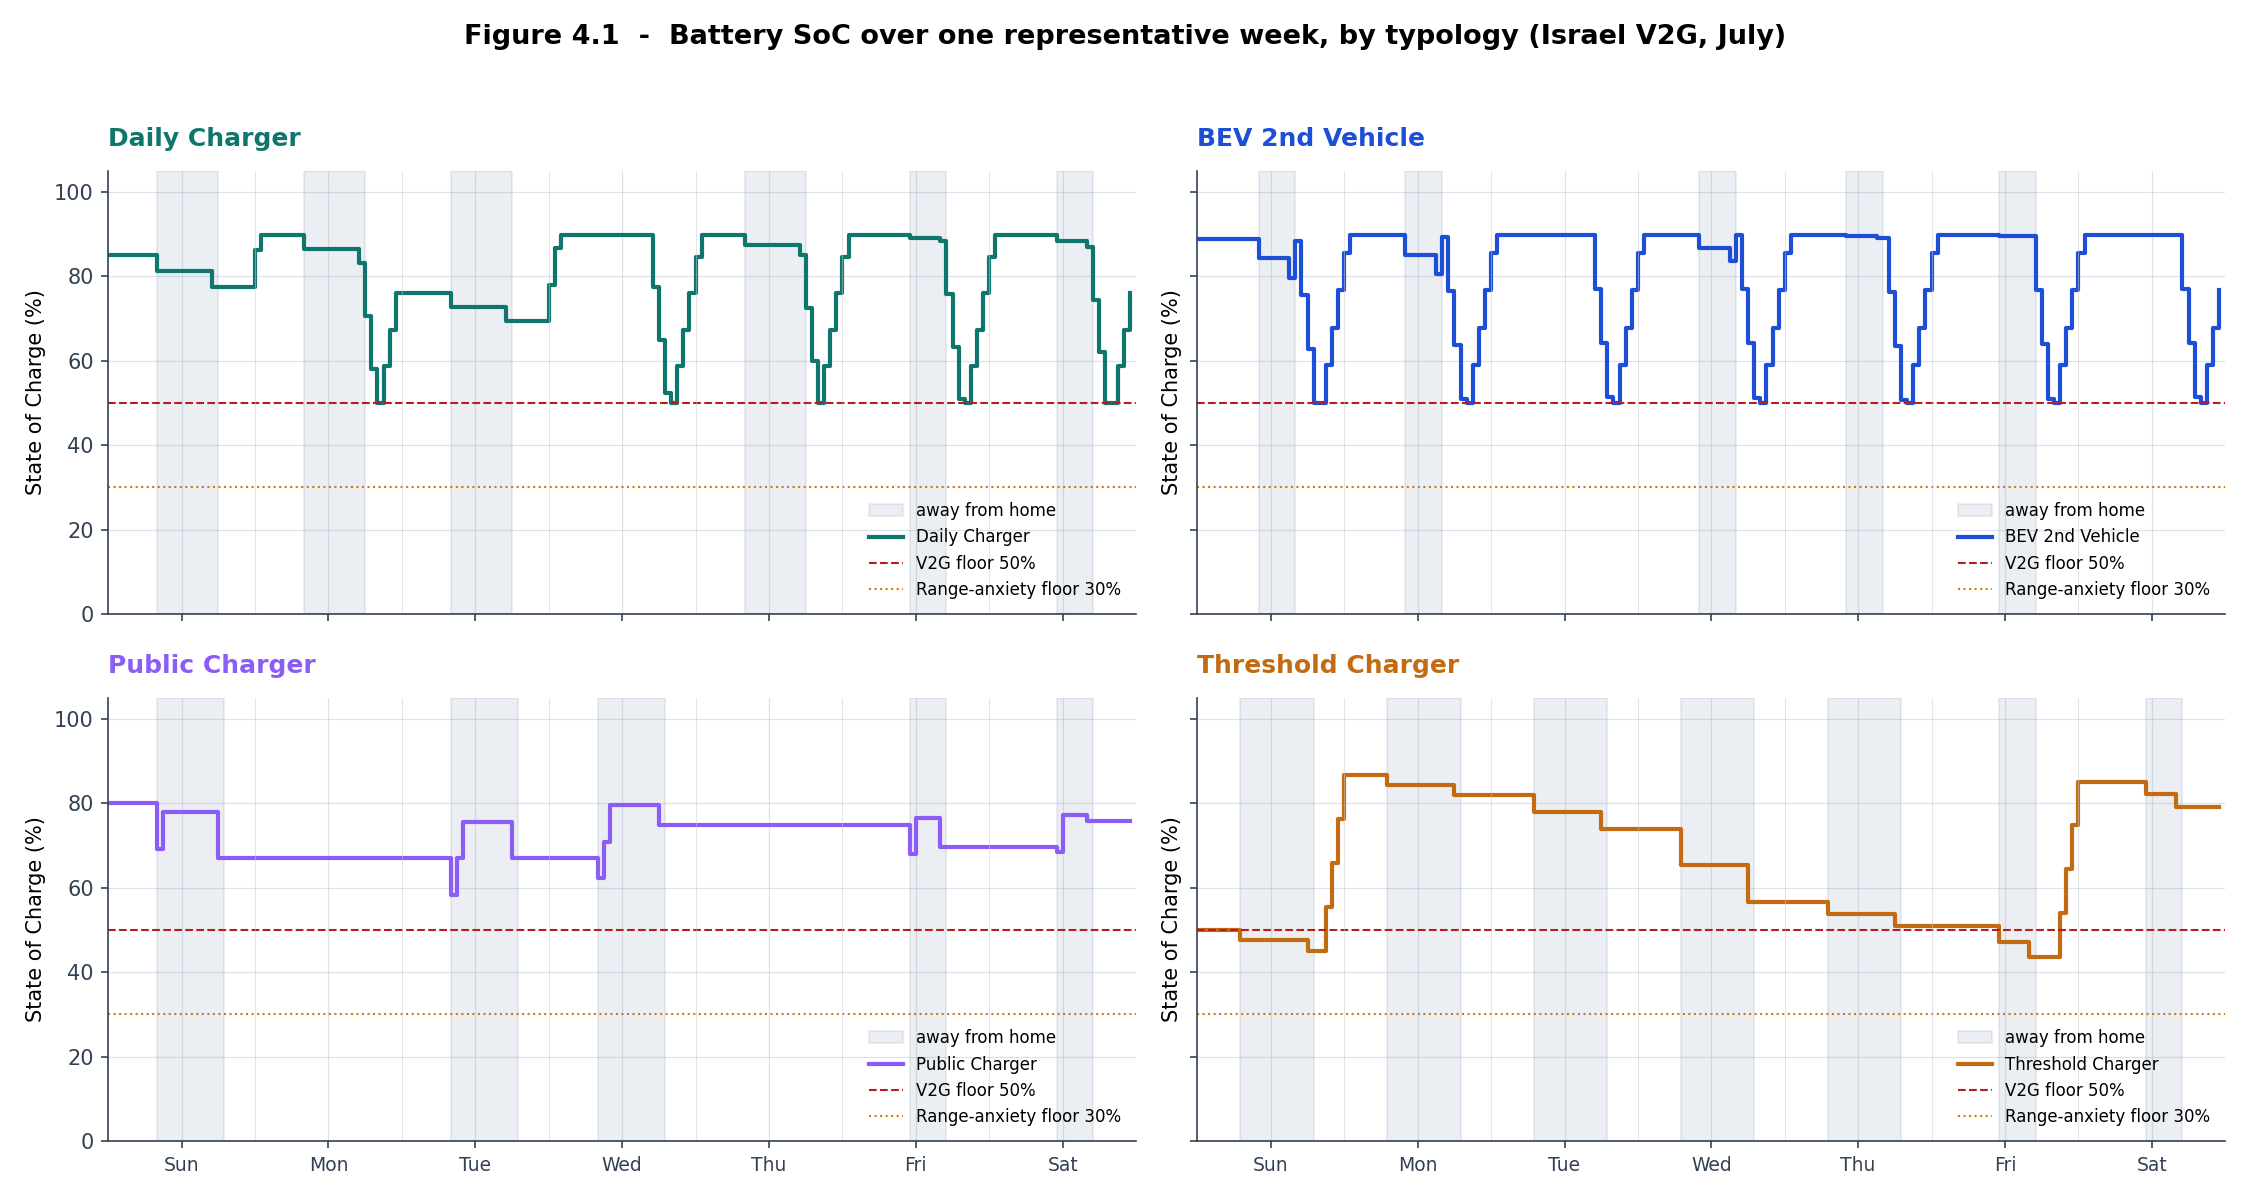
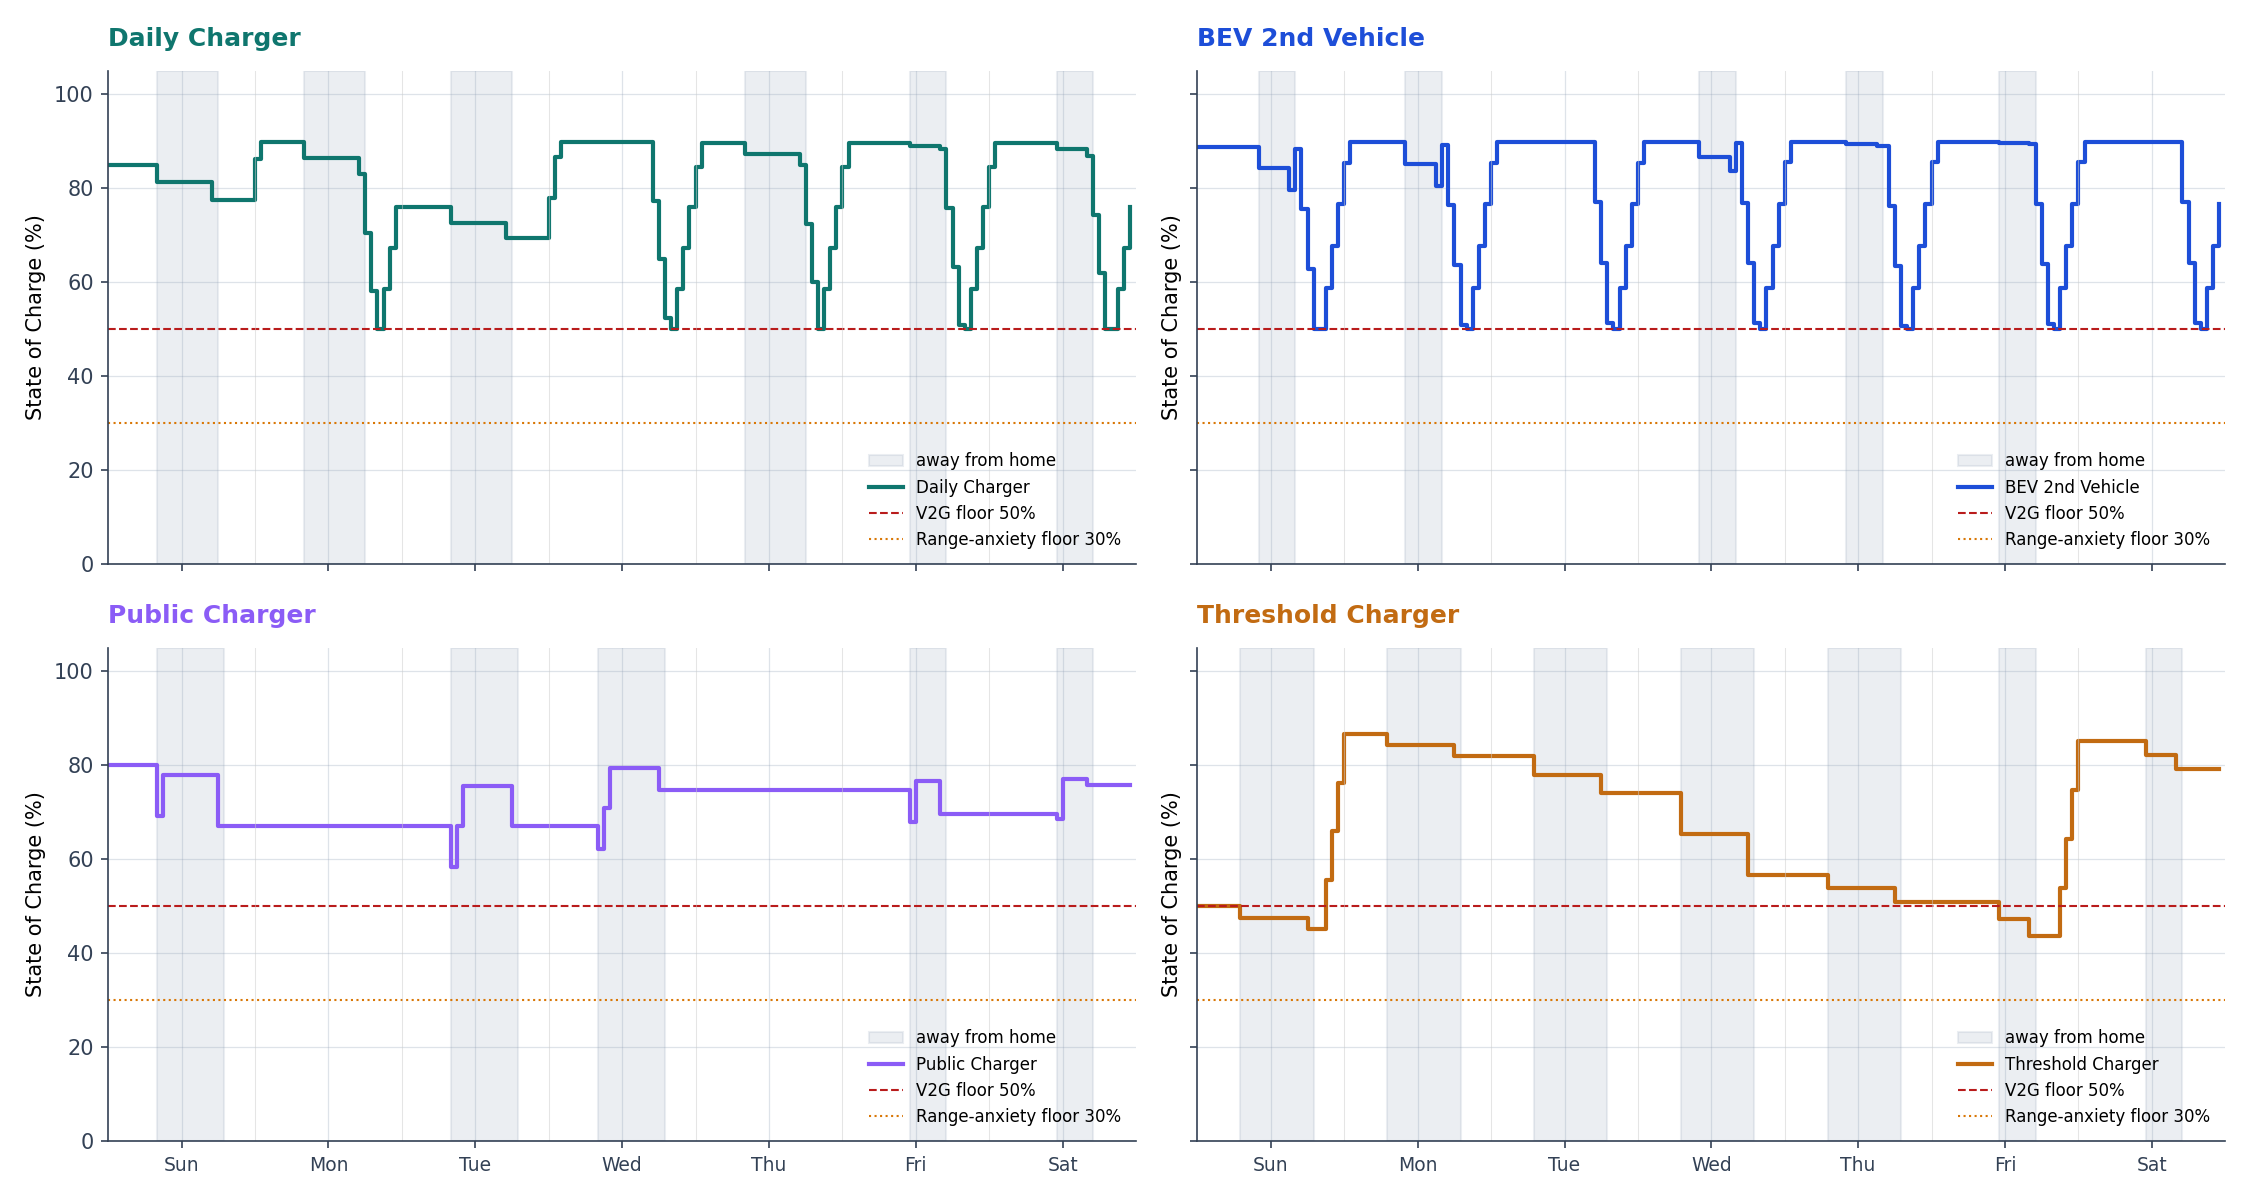
Fig 5.2 hedged labels + Fig 4.1 cleanup  - w12z: IL capable shown as "<0.5% (a few hundred)"; UK rounded   (~100k/~6%, ~60k/~4%, ~12%); gap annotation ~40x - w12ae: remove internal suptitle (caption lives in the manuscript)

diff --git a/src/plot_w12z_capability_ilvuk.py b/src/plot_w12z_capability_ilvuk.py
@@ -44,8 +44,14 @@ DATA = {
 }
 COUNTS = {
     L_B1: ("58,347", "~195k"),
-    L_B2: ("9,899", "~101k"),
-    L_B3: ("~259", "~59k"),
+    L_B2: ("9,899", "~100k"),
+    L_B3: ("a few hundred", "~60k"),
+}
+PCT_OVERRIDE = {
+    (L_B2, 1): "~6%",
+    (L_B3, 0): "<0.5%",
+    (L_B3, 1): "~4%",
+    (L_B1, 1): "~12%",
 }
 FLOOR = {L_B1}
 
@@ -71,7 +77,7 @@ def main() -> None:
                            for i in range(len(labels))]:
         cnt = COUNTS[k][side]
         prefix = "≥" if k in FLOOR and side == 0 else ""
-        pct = f"{v:.2f}%" if v < 0.5 else f"{v:.1f}%"
+        pct = PCT_OVERRIDE.get((k, side), f"{v:.2f}%" if v < 0.5 else f"{v:.1f}%")
         ax.text(xi, v + 0.45, f"{prefix}{pct}", ha="center",
                 fontsize=10.5, fontweight="bold", color="#1e293b")
         ax.text(xi, v + 2.0, f"({cnt})", ha="center",
@@ -85,7 +91,7 @@ def main() -> None:
                  "mid-2026")
     ax.legend(loc="upper center", bbox_to_anchor=(0.5, 0.99))
 
-    ax.annotate("\u03b22\u2192\u03b23 in Israel: ~38\u00d7 gap, closed by a\nBMS software switch + OEM approval",
+    ax.annotate("\u03b22\u2192\u03b23 in Israel: ~40\u00d7 gap, closed by a\nBMS software switch + OEM approval",
                 xy=(2.0 - 0.16, 1.0), xytext=(1.55, 10.5),
                 ha="center", fontsize=9, color=PALETTE["cost"],
                 arrowprops=dict(arrowstyle="->", color=PALETTE["cost"],

diff --git a/src/plot_w12ae_soc_week.py b/src/plot_w12ae_soc_week.py
@@ -86,10 +86,7 @@ def main() -> None:
         ax.grid(True, alpha=0.3)
         ax.legend(fontsize=8, loc="lower right")
 
-    fig.suptitle("Figure 4.1  -  Battery SoC over one representative week, "
-                 "by typology (Israel V2G, July)",
-                 fontsize=13, fontweight="bold")
-    fig.tight_layout(rect=(0, 0, 1, 0.96))
+    fig.tight_layout()
     fig.savefig(OUT, dpi=150, facecolor="white")
     print(f"Saved {OUT}")
 
